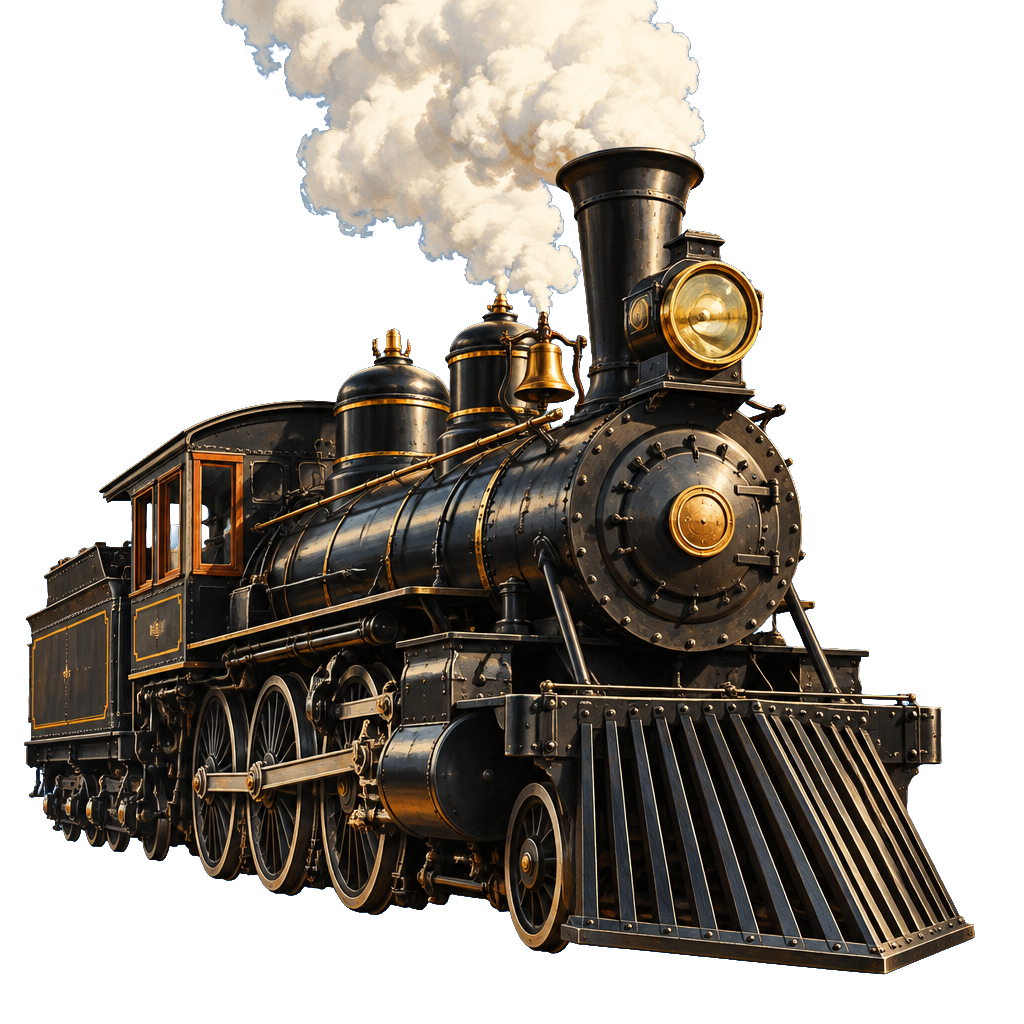
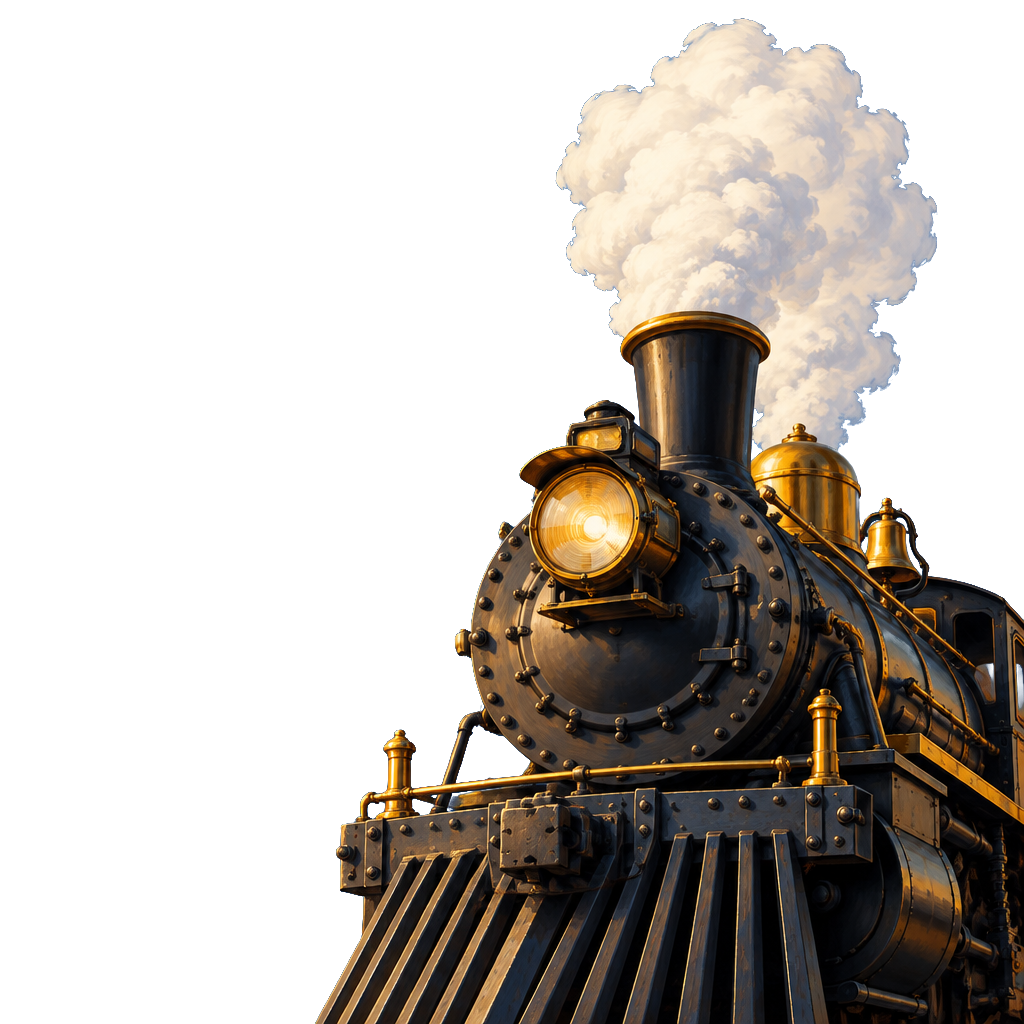
Recompose the train as a tight head-on close-up, per reference
Replace the wide 3/4-view locomotive with a tight cinematic close-up
of just the nose/headlamp/stack, matching the client's reference
image: the head fills the frame bursting in from the left, instead
of showing most of the train's body. Needed two regeneration passes
to get a clean cutout — a teal backdrop bled a greenish tint into
the black metal's shading, and the first blue-backdrop attempt had
its steam plume clipped by the canvas edge; the final version keeps
the whole plume inside the frame.

Claude-Session: https://claude.ai/code/session_01GarmoaHphnwR4RDxrVpuCy

diff --git a/app/globals.css b/app/globals.css
@@ -397,7 +397,7 @@
 /* the parked train: a generated painting, docked off the left edge of the
    screen so only its head (cowcatcher + headlamp + smokestack) peeks into
    frame — not a full train, just the head, per the client's spec. */
-.trp-dock{position:absolute;z-index:2;left:-3vh;bottom:11vh;
+.trp-dock{position:absolute;z-index:2;left:0;bottom:11vh;
   height:56vh;overflow:visible;pointer-events:none;}
 .trp{position:relative;height:100%;}
 .trp-img{position:absolute;left:0;bottom:0;height:100%;width:auto;max-width:none;
@@ -416,7 +416,7 @@
 @keyframes trp-float{0%,100%{transform:translateY(0)}50%{transform:translateY(-2.5%)}}
 
 @media (max-width:860px){
-  .trp-dock{left:-22vh;height:44vh;bottom:9vh;}
+  .trp-dock{left:-6vh;height:34vh;bottom:9vh;}
 }
 
 .ats-bottom{position:absolute;left:0;right:0;bottom:4vh;z-index:3;
